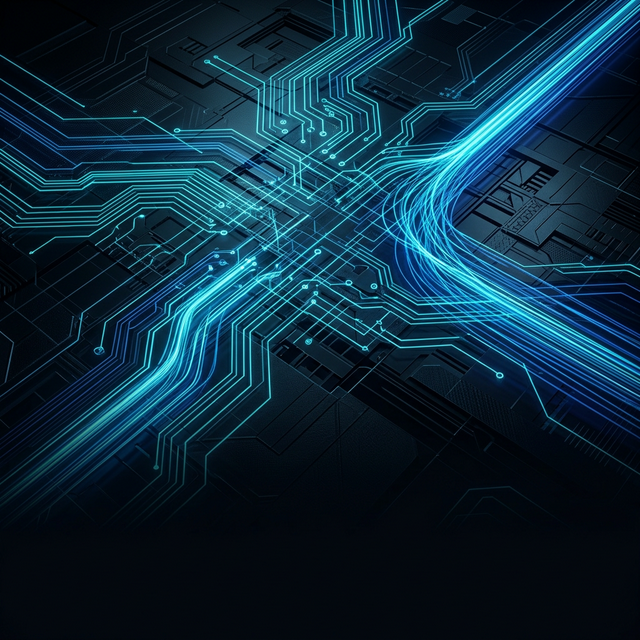
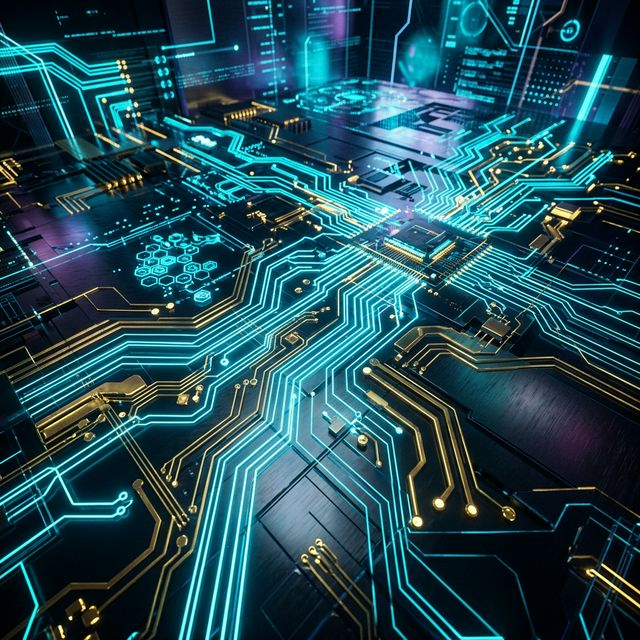
feat: integrate 17 new vibrant category images and fix main.js corruption

diff --git a/src/main.js b/src/main.js
@@ -13,12 +13,12 @@ const FLAGSHIP_IMAGES = {
   'society': '/assets/categories/society.png',
   'nature': '/assets/categories/nature.png',
   // Subcategories
-  'music': '/assets/categories/sub/music.png',
-  'cinema': '/assets/categories/sub/cinema.png',
-  'gaming': '/assets/categories/sub/gaming.png',
-  'ai': '/assets/categories/sub/ai.png',
-  'dev': '/assets/categories/sub/dev.png',
-  'space': '/assets/categories/sub/space.png'
+  'music': '/assets/categories/music.png',
+  'cinema': '/assets/categories/cinema.png',
+  'gaming': '/assets/categories/gaming.png',
+  'ai': '/assets/categories/ai.png',
+  'dev': '/assets/categories/dev.png',
+  'space': '/assets/categories/space.png'
 };
 
 const getEffectiveImageUrl = (ctx) => {
@@ -578,40 +578,42 @@ const t_api = (msg) => {
   const mapping = {
     'Daily limit reached': t.dailyLimitLabel,
     'Invalid credentials or user not found': t.credsInvalid,
-    'Email already in use': t.emailInU  { id: 'entertainment', titles: { en: 'Entertainment', es: 'Entretenimiento', fr: 'Divertissement', de: 'Unterhaltung' }, icon: 'ph-popcorn', parentId: null, imageUrl: '/categories/entertainment.png' },
-  { id: 'music', titles: { en: 'Music', es: 'Música', fr: 'Musique', de: 'Musik' }, icon: 'ph-music-notes', parentId: 'entertainment', imageUrl: '/categories/music.png' },
-  { id: 'rock', titles: { en: 'Rock', es: 'Rock', fr: 'Rock', de: 'Rock' }, icon: 'ph-guitar', parentId: 'music', imageUrl: '/categories/rock.png' },
-  { id: 'classic_rock', titles: { en: 'Classic Rock', es: 'Rock Clásico', fr: 'Rock Classique', de: 'Classic Rock' }, icon: 'ph-vinyl', parentId: 'rock', imageUrl: '/categories/classic_rock.png' },
-  { id: 'indie_rock', titles: { en: 'Indie Rock', es: 'Rock Indie', fr: 'Rock Indie', de: 'Indie Rock' }, icon: 'ph-guitar', parentId: 'rock', imageUrl: '/categories/indie_rock.png' },
-  { id: 'metal', titles: { en: 'Metal', es: 'Metal', fr: 'Metal', de: 'Metal' }, icon: 'ph-skull', parentId: 'rock', imageUrl: '/categories/metal.png' },
-  { id: 'electronic', titles: { en: 'Electronic', es: 'Electrónica', fr: 'Électronique', de: 'Elektronik' }, icon: 'ph-speaker-hifi', parentId: 'music', imageUrl: '/categories/electronic.png' },
-  { id: 'techno', titles: { en: 'Techno', es: 'Techno', fr: 'Techno', de: 'Techno' }, icon: 'ph-vinyl', parentId: 'electronic', imageUrl: '/categories/techno.png' },
-  { id: 'house', titles: { en: 'House', es: 'House', fr: 'House', de: 'House' }, icon: 'ph-waves', parentId: 'electronic', imageUrl: '/categories/house.png' },
-  { id: 'synthwave', titles: { en: 'Synthwave', es: 'Synthwave', fr: 'Synthwave', de: 'Synthwave' }, icon: 'ph-sun-horizon', parentId: 'electronic', imageUrl: '/categories/synthwave.png' },
-  { id: 'pop', titles: { en: 'Pop', es: 'Pop', fr: 'Pop', de: 'Pop' }, icon: 'ph-star', parentId: 'music', imageUrl: '/categories/pop.png' },
-  { id: 'jazz', titles: { en: 'Jazz', es: 'Jazz', fr: 'Jazz', de: 'Jazz' }, icon: 'ph-trumpet', parentId: 'music', imageUrl: '/categories/jazz.png' },
-  { id: 'hiphop', titles: { en: 'Hip Hop', es: 'Hip Hop', fr: 'Hip Hop', de: 'Hip Hop' }, icon: 'ph-microphone-stage', parentId: 'music', imageUrl: '/categories/hiphop.png' },
-  { id: 'cinema', titles: { en: 'Cinema', es: 'Cine', fr: 'Cinéma', de: 'Kino' }, icon: 'ph-film-strip', parentId: 'entertainment', imageUrl: '/categories/cinema.png' },
-  { id: 'scifi', titles: { en: 'Sci-Fi', es: 'Ciencia Ficción', fr: 'Sci-Fi', de: 'Sci-Fi' }, icon: 'ph-rocket-launch', parentId: 'cinema', imageUrl: '/categories/scifi.png' },
-  { id: 'horror', titles: { en: 'Horror', es: 'Terror', fr: 'Horreur', de: 'Horror' }, icon: 'ph-skull', parentId: 'cinema', imageUrl: '/categories/horror.png' },
-  { id: 'animation', titles: { en: 'Animation', es: 'Animación', fr: 'Animation', de: 'Animation' }, icon: 'ph-palette', parentId: 'cinema', imageUrl: '/categories/animation.png' },
-  { id: 'anime', titles: { en: 'Anime', es: 'Anime', fr: 'Anime', de: 'Anime' }, icon: 'ph-shooting-star', parentId: 'animation', imageUrl: '/categories/anime.png' },
-  { id: 'gaming', titles: { en: 'Gaming', es: 'Videojuegos', fr: 'Jeux Vidéo', de: 'Gaming' }, icon: 'ph-game-controller', parentId: 'entertainment', imageUrl: '/categories/gaming.png' },
-  { id: 'rpg', titles: { en: 'RPG', es: 'RPG', fr: 'RPG', de: 'RPG' }, icon: 'ph-castle-turret', parentId: 'gaming', imageUrl: '/categories/rpg.png' },
-  { id: 'fps', titles: { en: 'FPS', es: 'FPS', fr: 'FPS', de: 'FPS' }, icon: 'ph-crosshair', parentId: 'gaming', imageUrl: '/categories/fps.png' },
-  { id: 'moba', titles: { en: 'MOBA', es: 'MOBA', fr: 'MOBA', de: 'MOBA' }, icon: 'ph-sword', parentId: 'gaming', imageUrl: '/categories/moba.png' },
-  { id: 'tech', titles: { en: 'Technology', es: 'Tecnología', fr: 'Technologie', de: 'Technologie' }, icon: 'ph-cpu', parentId: null, imageUrl: '/categories/tech.png' },
-  { id: 'ai', titles: { en: 'Artificial Intelligence', es: 'IA', fr: 'IA', de: 'KI' }, icon: 'ph-robot', parentId: 'tech', imageUrl: '/categories/ai.png' },
-  { id: 'genai', titles: { en: 'Generative AI', es: 'IA Generativa', fr: 'IA Générative', de: 'Generative KI' }, icon: 'ph-magic-wand', parentId: 'ai', imageUrl: '/categories/genai.png' },
-  { id: 'ml', titles: { en: 'Machine Learning', es: 'Aprendizaje Automático', fr: 'ML', de: 'ML' }, icon: 'ph-brain', parentId: 'ai', imageUrl: '/categories/ml.png' },
-  { id: 'robotics', titles: { en: 'Robotics', es: 'Robótica', fr: 'Robotique', de: 'Robotik' }, icon: 'ph-armchair', parentId: 'ai', imageUrl: '/categories/robotics.png' },
-  { id: 'dev', titles: { en: 'Development', es: 'Desarrollo', fr: 'Développement', de: 'Entwicklung' }, icon: 'ph-code', parentId: 'tech', imageUrl: '/categories/dev.png' },
-  { id: 'webdev', titles: { en: 'Web Dev', es: 'Desarrollo Web', fr: 'Dév Web', de: 'Webentwicklung' }, icon: 'ph-browser', parentId: 'dev', imageUrl: '/categories/webdev.png' },
-'ai' },
-  { id: 'dev', titles: { en: 'Development', es: 'Desarrollo', fr: 'Développement', de: 'Entwicklung' }, icon: 'ph-code', parentId: 'tech' },
-  { id: 'webdev', titles: { en: 'Web Dev', es: 'Desarrollo Web', fr: 'Dév Web', de: 'Webentwicklung' }, icon: 'ph-browser', parentId: 'dev' },
-  { id: 'react_dev', titles: { en: 'React', es: 'React', fr: 'React', de: 'React' }, icon: 'ph-atom', parentId: 'webdev' },
-  { id: 'backend', titles: { en: 'Backend', es: 'Backend', fr: 'Backend', de: 'Backend' }, icon: 'ph-database', parentId: 'webdev' },
+    'Email already in use': t.emailInUse,
+  };
+
+  return mapping[norm] || mapping[msg] || msg;
+};
+
+const defaultContexts = [
+  { id: 'entertainment', titles: { en: 'Entertainment', es: 'Entretenimiento', fr: 'Divertissement', de: 'Unterhaltung' }, icon: 'ph-popcorn', parentId: null, imageUrl: '/assets/categories/entertainment.png' },
+  { id: 'music', titles: { en: 'Music', es: 'Música', fr: 'Musique', de: 'Musik' }, icon: 'ph-music-notes', parentId: 'entertainment', imageUrl: '/assets/categories/music.png' },
+  { id: 'rock', titles: { en: 'Rock', es: 'Rock', fr: 'Rock', de: 'Rock' }, icon: 'ph-guitar', parentId: 'music', imageUrl: '/assets/categories/rock.png' },
+  { id: 'classic_rock', titles: { en: 'Classic Rock', es: 'Rock Clásico', fr: 'Rock Classique', de: 'Classic Rock' }, icon: 'ph-vinyl', parentId: 'rock', imageUrl: '/assets/categories/classic_rock.png' },
+  { id: 'indie_rock', titles: { en: 'Indie Rock', es: 'Rock Indie', fr: 'Rock Indie', de: 'Indie Rock' }, icon: 'ph-guitar', parentId: 'rock', imageUrl: '/assets/categories/indie_rock.png' },
+  { id: 'metal', titles: { en: 'Metal', es: 'Metal', fr: 'Metal', de: 'Metal' }, icon: 'ph-skull', parentId: 'rock', imageUrl: '/assets/categories/metal.png' },
+  { id: 'electronic', titles: { en: 'Electronic', es: 'Electrónica', fr: 'Électronique', de: 'Elektronik' }, icon: 'ph-speaker-hifi', parentId: 'music', imageUrl: '/assets/categories/electronic.png' },
+  { id: 'techno', titles: { en: 'Techno', es: 'Techno', fr: 'Techno', de: 'Techno' }, icon: 'ph-vinyl', parentId: 'electronic', imageUrl: '/assets/categories/techno.png' },
+  { id: 'house', titles: { en: 'House', es: 'House', fr: 'House', de: 'House' }, icon: 'ph-waves', parentId: 'electronic', imageUrl: '/assets/categories/house.png' },
+  { id: 'synthwave', titles: { en: 'Synthwave', es: 'Synthwave', fr: 'Synthwave', de: 'Synthwave' }, icon: 'ph-sun-horizon', parentId: 'electronic', imageUrl: '/assets/categories/synthwave.png' },
+  { id: 'pop', titles: { en: 'Pop', es: 'Pop', fr: 'Pop', de: 'Pop' }, icon: 'ph-star', parentId: 'music', imageUrl: '/assets/categories/pop.png' },
+  { id: 'jazz', titles: { en: 'Jazz', es: 'Jazz', fr: 'Jazz', de: 'Jazz' }, icon: 'ph-trumpet', parentId: 'music', imageUrl: '/assets/categories/jazz.png' },
+  { id: 'hiphop', titles: { en: 'Hip Hop', es: 'Hip Hop', fr: 'Hip Hop', de: 'Hip Hop' }, icon: 'ph-microphone-stage', parentId: 'music', imageUrl: '/assets/categories/hiphop.png' },
+  { id: 'cinema', titles: { en: 'Cinema', es: 'Cine', fr: 'Cinéma', de: 'Kino' }, icon: 'ph-film-strip', parentId: 'entertainment', imageUrl: '/assets/categories/cinema.png' },
+  { id: 'scifi', titles: { en: 'Sci-Fi', es: 'Ciencia Ficción', fr: 'Sci-Fi', de: 'Sci-Fi' }, icon: 'ph-rocket-launch', parentId: 'cinema', imageUrl: '/assets/categories/scifi.png' },
+  { id: 'horror', titles: { en: 'Horror', es: 'Terror', fr: 'Horreur', de: 'Horror' }, icon: 'ph-skull', parentId: 'cinema', imageUrl: '/assets/categories/horror.png' },
+  { id: 'animation', titles: { en: 'Animation', es: 'Animación', fr: 'Animation', de: 'Animation' }, icon: 'ph-palette', parentId: 'cinema', imageUrl: '/assets/categories/animation.png' },
+  { id: 'anime', titles: { en: 'Anime', es: 'Anime', fr: 'Anime', de: 'Anime' }, icon: 'ph-shooting-star', parentId: 'animation', imageUrl: '/assets/categories/anime.png' },
+  { id: 'gaming', titles: { en: 'Gaming', es: 'Videojuegos', fr: 'Jeux Vidéo', de: 'Gaming' }, icon: 'ph-game-controller', parentId: 'entertainment', imageUrl: '/assets/categories/gaming.png' },
+  { id: 'rpg', titles: { en: 'RPG', es: 'RPG', fr: 'RPG', de: 'RPG' }, icon: 'ph-castle-turret', parentId: 'gaming', imageUrl: '/assets/categories/rpg.png' },
+  { id: 'fps', titles: { en: 'FPS', es: 'FPS', fr: 'FPS', de: 'FPS' }, icon: 'ph-crosshair', parentId: 'gaming', imageUrl: '/assets/categories/fps.png' },
+  { id: 'moba', titles: { en: 'MOBA', es: 'MOBA', fr: 'MOBA', de: 'MOBA' }, icon: 'ph-sword', parentId: 'gaming', imageUrl: '/assets/categories/moba.png' },
+  { id: 'tech', titles: { en: 'Technology', es: 'Tecnología', fr: 'Technologie', de: 'Technologie' }, icon: 'ph-cpu', parentId: null, imageUrl: '/assets/categories/tech.png' },
+  { id: 'ai', titles: { en: 'Artificial Intelligence', es: 'IA', fr: 'IA', de: 'KI' }, icon: 'ph-robot', parentId: 'tech', imageUrl: '/assets/categories/ai.png' },
+  { id: 'genai', titles: { en: 'Generative AI', es: 'IA Generativa', fr: 'IA Générative', de: 'Generative KI' }, icon: 'ph-magic-wand', parentId: 'ai', imageUrl: '/assets/categories/genai.png' },
+  { id: 'ml', titles: { en: 'Machine Learning', es: 'Aprendizaje Automático', fr: 'ML', de: 'ML' }, icon: 'ph-brain', parentId: 'ai', imageUrl: '/assets/categories/ml.png' },
+  { id: 'robotics', titles: { en: 'Robotics', es: 'Robótica', fr: 'Robotique', de: 'Robotik' }, icon: 'ph-armchair', parentId: 'ai', imageUrl: '/assets/categories/robotics.png' },
+  { id: 'dev', titles: { en: 'Development', es: 'Desarrollo', fr: 'Développement', de: 'Entwicklung' }, icon: 'ph-code', parentId: 'tech', imageUrl: '/assets/categories/dev.png' },
+  { id: 'webdev', titles: { en: 'Web Dev', es: 'Desarrollo Web', fr: 'Dév Web', de: 'Webentwicklung' }, icon: 'ph-browser', parentId: 'dev', imageUrl: '/assets/categories/webdev.png' },
   { id: 'cybersec', titles: { en: 'Cybersecurity', es: 'Ciberseguridad', fr: 'Cybersécurité', de: 'Cybersicherheit' }, icon: 'ph-shield-checkered', parentId: 'tech' },
   { id: 'hardware', titles: { en: 'Hardware', es: 'Hardware', fr: 'Hardware', de: 'Hardware' }, icon: 'ph-circuit-board', parentId: 'tech' },
   { id: 'gpus', titles: { en: 'GPUs', es: 'GPUs', fr: 'GPUs', de: 'GPUs' }, icon: 'ph-image', parentId: 'hardware' },
